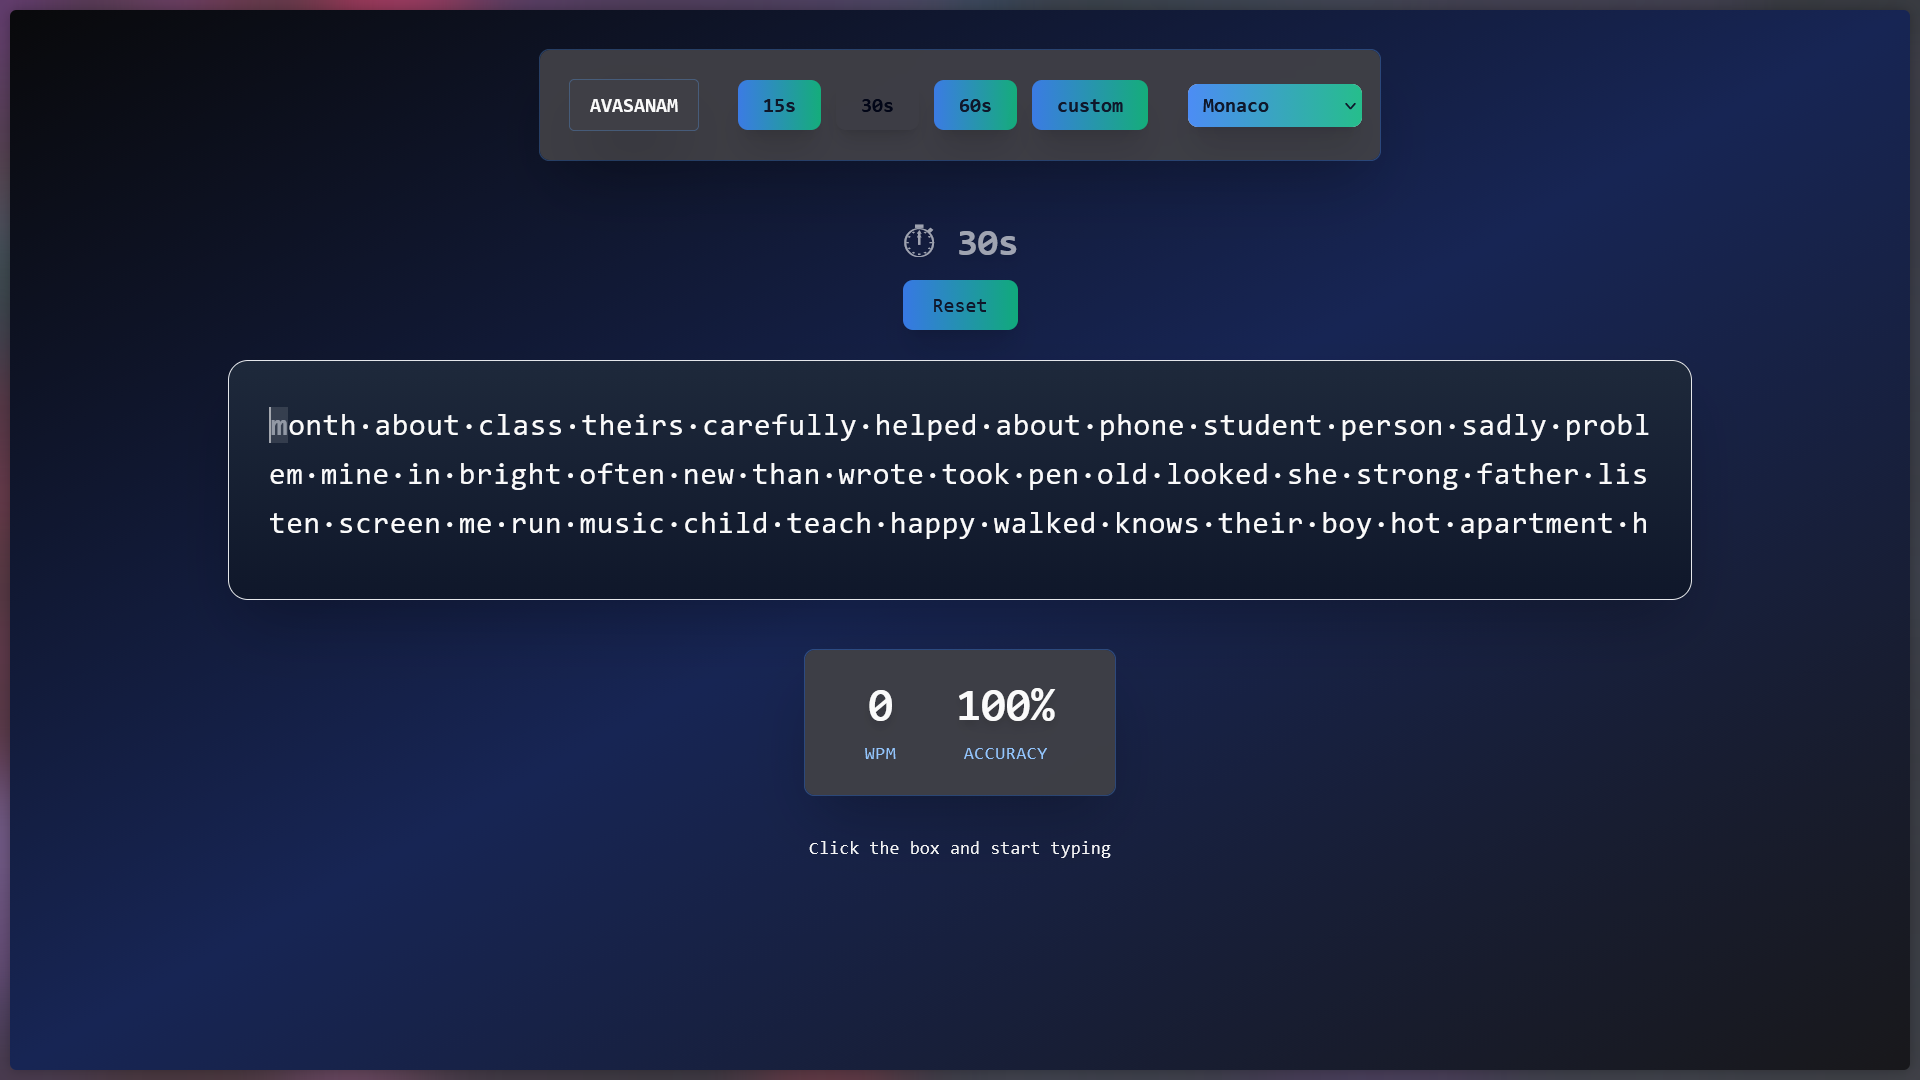
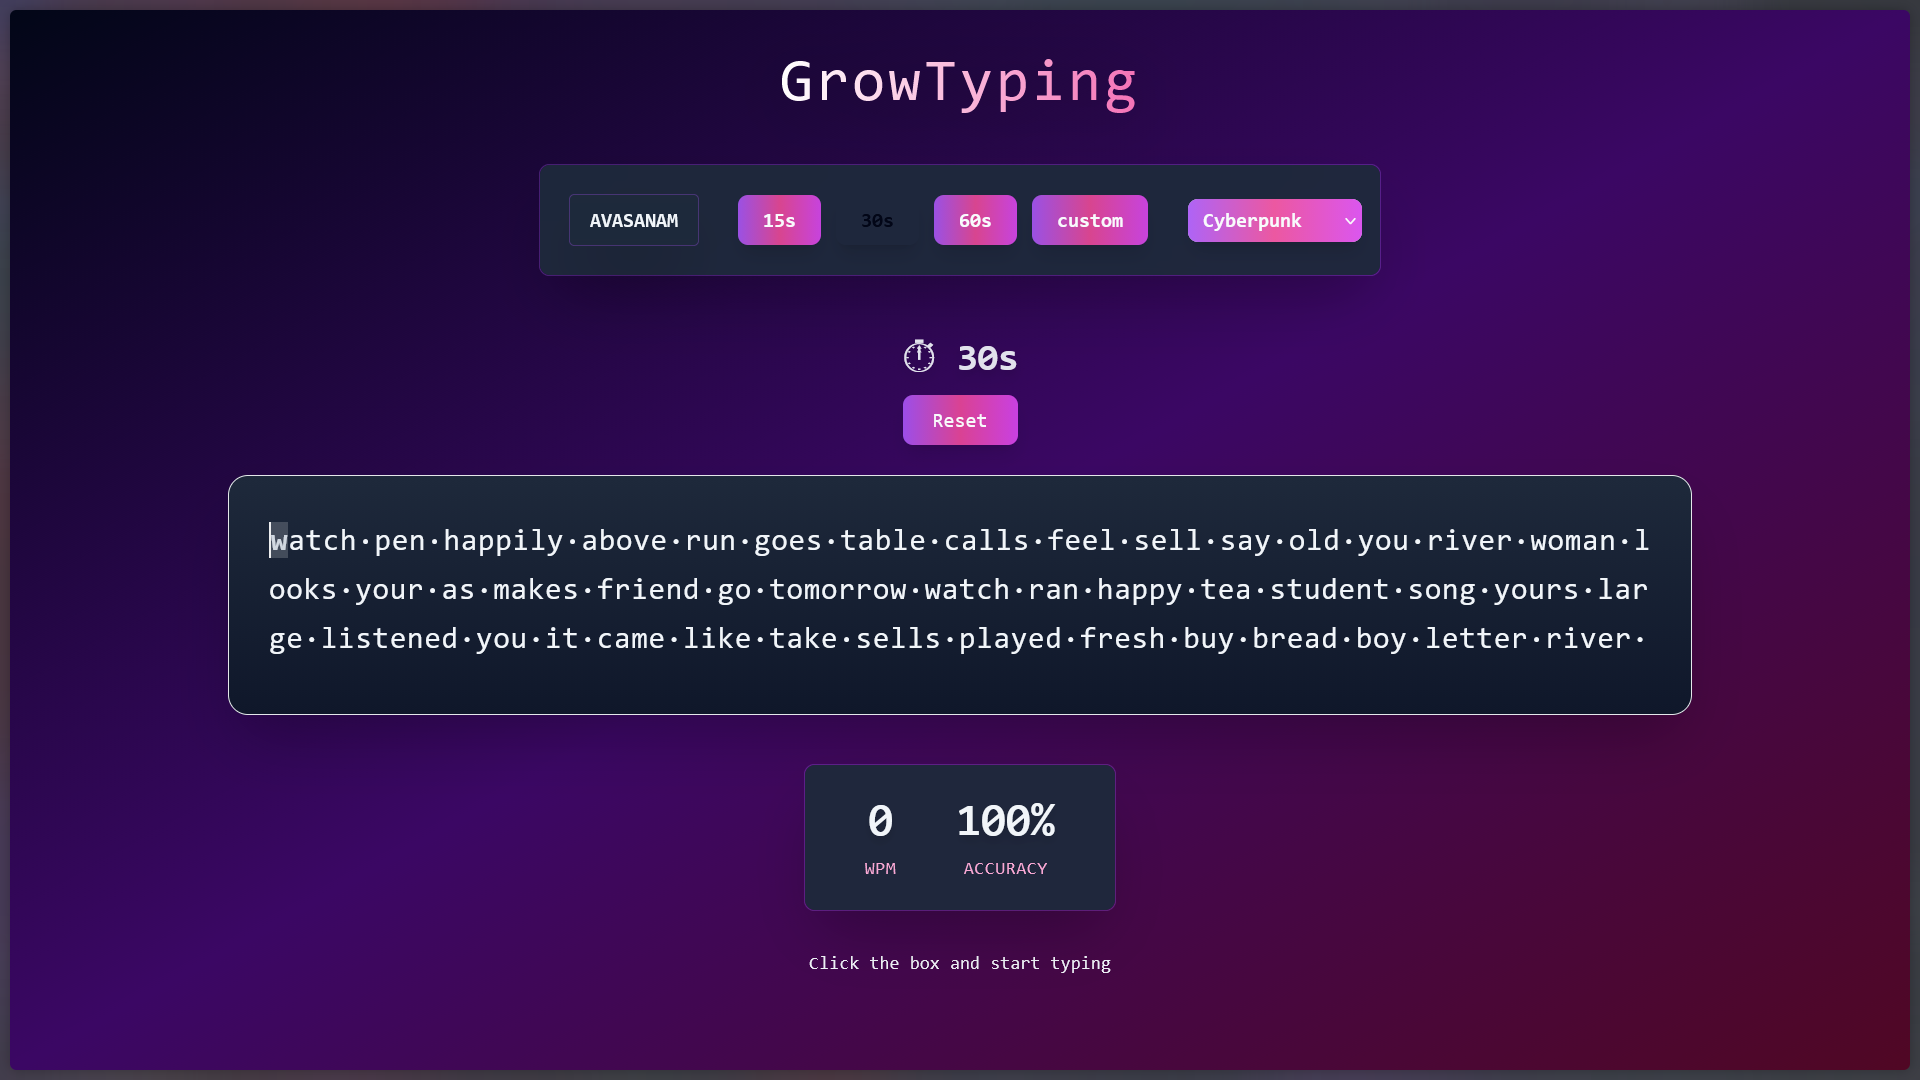
fix

diff --git a/frontend/src/components/typing.jsx b/frontend/src/components/typing.jsx
@@ -320,7 +320,11 @@ const finishTest = async () => {
       onKeyDown={handleKeyDown}
       className={`min-h-screen bg-gradient-to-br ${currentTheme.bg} ${currentTheme.text} font-mono flex flex-col items-center pt-8 outline-none`}
     >
-
+        <div className="w-full flex justify-center mb-10">
+          <h1 className={`text-4xl md:text-5xl font-light tracking-wider leading-[1.1] pb-1 bg-gradient-to-r from-white via-${currentTheme.primary}-200 to-${currentTheme.primary}-400 bg-clip-text text-transparent drop-shadow-[0_8px_25px_rgba(0,0,0,0.45)]`}>
+            GrowTyping
+          </h1>
+        </div>
         <div className="w-full flex flex-col items-center gap-6 mb-12">
           <div className={`${currentTheme.card} rounded-lg p-6 w-full max-w-2xl`}>
             <div className="flex items-center justify-between gap-8">
